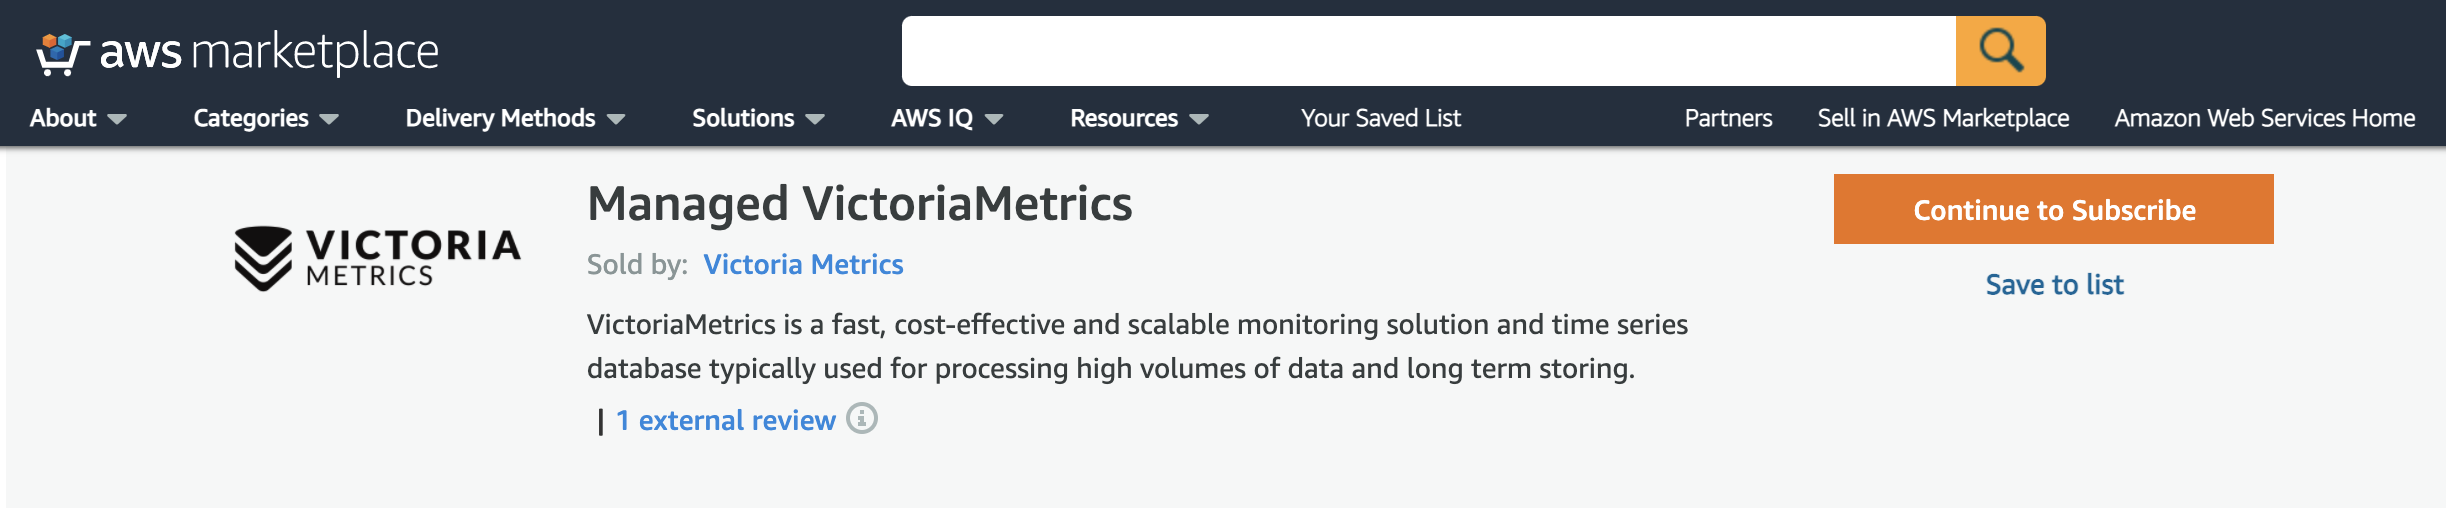
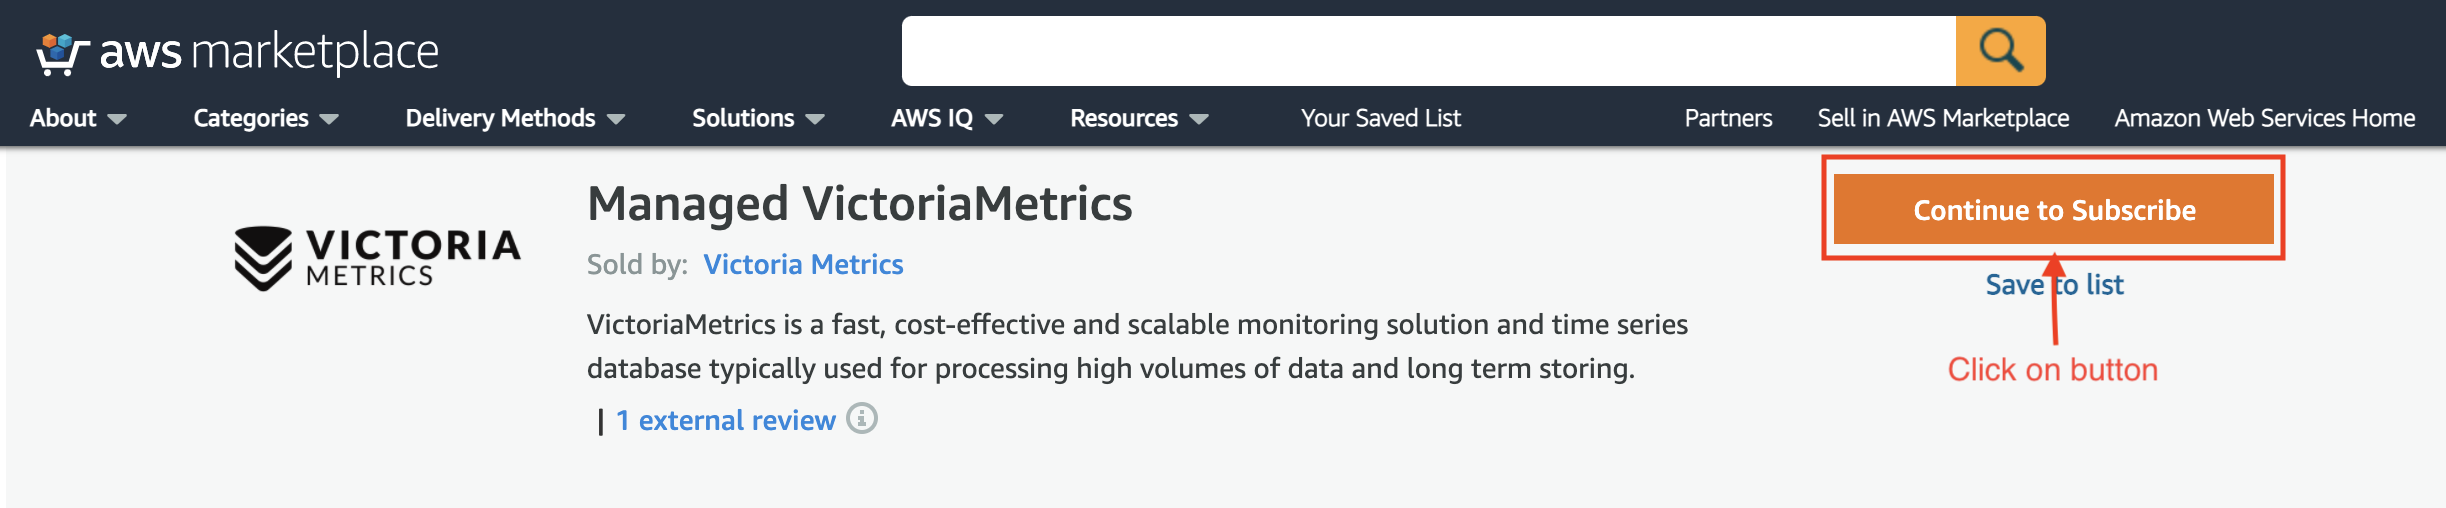
app/vmctl: update managed quickstart guide

Changed region(s): [[0.7457, 0.502, 0.9321, 0.561], [0.7768, 0.7087, 0.9011, 0.7677], [0.7457, 0.2953, 0.9321, 0.3248]]

diff --git a/docs/managed-victoriametrics/quickstart.md b/docs/managed-victoriametrics/quickstart.md
@@ -7,46 +7,67 @@ menu:
     parent: "managed"
     weight: 2
 ---
-# Quick Start
+# Quick Start in Managed VictoriaMetrics
+
 
 Managed VictoriaMetrics - is a database-as-a-service platform, where users can run the VictoriaMetrics 
 that they know and love on AWS without the need to perform typical DevOps tasks such as proper configuration, 
 monitoring, logs collection, access protection, software updates, backups, etc.
 
+The document covers the following topics
+1. [How to register](#how-to-register)
+2. [How to restore password](#how-to-restore-password)
+3. [Creating instance](#creating-instance)
+4. [Instance access](#instance-access)
+5. [Modifying instance](#modifying-instance)
+
 ## How to register
 
-Managed VictoriaMetrics id distributed via [AWS Marketplace](https://aws.amazon.com/marketplace/pp/prodview-4tbfq5icmbmyc).
+Managed VictoriaMetrics id distributed via <a href="https://aws.amazon.com/marketplace/pp/prodview-4tbfq5icmbmyc" target="_blank">AWS Marketplace</a>.
+Please note, that initial registering is only possible via link from <a href="https://aws.amazon.com/marketplace/pp/prodview-4tbfq5icmbmyc" target="_blank">AWS Marketplace</a>.
 To start using the service, one should have already registered AWS account 
-and visit [VictoriaMetrics product page](https://aws.amazon.com/marketplace/pp/prodview-4tbfq5icmbmyc).
+and visit <a href="https://aws.amazon.com/marketplace/pp/prodview-4tbfq5icmbmyc" target="_blank">VictoriaMetrics product page</a>.
+On that page click on `View purchase option` and you will be redirected to login page or to subscribe page.
 
-### Amazon Web Services
+<p>
+  <img src="quickstart_aws-purchase-click.png" width="800">
+</p>
 
-Managed VictoriaMetrics id distributed via <a href="https://aws.amazon.com/marketplace/pp/prodview-4tbfq5icmbmyc">AWS Marketplace</a>.
-To start using the service, one should have already registered AWS account. Then, go to the
+Then, go to the
 <a href="https://aws.amazon.com/marketplace/pp/prodview-4tbfq5icmbmyc">VictoriaMetrics product page</a>
-and click "Continue to Subscribe" button:
+and click `Continue to Subscribe` button:
 
 <p>
   <img src="quickstart_continue-subscribe.png" width="800">
 </p>
 
-Then on product page press the "Subscribe" button:
+Then on product page press the `Subscribe` button:
 
 <p>
   <img src="quickstart_subscribe.png" width="800">
 </p>
 
-You'll be taken to <a href="https://dbaas.victoriametrics.com/signIn">Managed VictoriaMetrics auth page</a>:
+After that action you will be able to see success message where you should click `Set up your account` button:
 
 <p>
-  <img src="quickstart_signin.png" width="800">
+  <img src="quickstart_setup-your-account.png" width="800">
+</p>
+
+You'll be taken to <a href="https://dbaas.victoriametrics.com//signUp">Managed VictoriaMetrics sign up page</a>:
+
+<p>
+  <img src="quickstart_signup-page.png" width="800">
 </p>
 
 Choose to register manually or via Google Auth.
 
-Please note, that initial registering is only possible via link from <a href="https://aws.amazon.com/marketplace/pp/prodview-4tbfq5icmbmyc" target="_blank">AWS Marketplace</a>.
+If it was chosen manually registration, confirmation email wil be sent to your email address.
 
-See what to do after registering in Quick Start guide.
+<p>
+  <img src="quickstart_email-confirm.png" width="800">
+</p>
+
+After Google Auth process will redirect automatically to the main page.
 
 ## How to restore password
 
@@ -66,15 +87,9 @@ If you forgot password, it can be restored in the following way:
 
 3. Follow the instruction sent to your email in order to gain access to your VictoriaMetrics cloud account:
 
-```
-Victoria Metrics Cloud password restore
-Follow https://dbaas.victoriametrics.com/login_by_link/{id} the link in order to restore access to Victoria Metrics Cloud.
-Access link expires once you login successfully or after 30min.
-You can change your password after login https://dbaas.victoriametrics.com/profile profile
-Please, ignore this email if you didn't init this action on Victoria Metrics Cloud.
-
-In case of questions contact our support support@victoriametrics.com
-```
+<p>
+  <img src="quickstart_password-restore-email.png" width="800">
+</p>
 
 4. Navigate to the Profile page by clicking the corresponding link at the top right corner:
 
@@ -91,39 +106,46 @@ In case of questions contact our support support@victoriametrics.com
 
 ## Creating instance
 
-Instances is a page where user can list and manage VictoriaMetrics single-node instances. 
-To create an instance click on the button `Create`:
+Deployments is a page where user can list and manage VictoriaMetrics deployments. 
+To create an instance click on the button `Create Deployments` button or link in the message:
 
 <p>
-  <img src="quickstart_instances.png" width="800">
+  <img src="quickstart_deployments.png" width="800">
 </p>
 
 In the opened form, choose parameters of the new instance such as:
 
-* `Instance type` from preset of AWS instances (you always can change the type later);
-* `Region` and `Zone` where instance should run;
-* Desired `disk size` for storing metrics (you always can expand disk size later);
+* `Deployment type` from preset single or cluster deployments;
+* `Region` where deployment should run;
+* Desired `storage capacity` for storing metrics (you always can expand disk size later);
 * `Retention` period for stored metrics.
+* `Size` of your deployment
 
 <p>
-  <img src="quickstart_instance-create.png" width="800">
+  <img src="quickstart_deployment-create.png" width="800">
 </p>
 
-Once created, instance will remain for a short period of time in `PROVISIONING` status 
+When all parameters are entered, click on the `Create` button, and deployment will be created
+
+Once created, deployment will remain for a short period of time in `PROVISIONING` status 
 while the hardware spins-up, just wait for a couple of minutes and reload the page. 
 You'll also be notified via email once provisioning is finished:
 
 <p>
-  <img src="quickstart_instance-provisioning.png" width="800">
+  <img src="quickstart_deployment-created.png" width="800">
 </p>
 
-## Access
+<p>
+  <img src="quickstart_deployments-running.png" width="800">
+</p>
+
+## Instance access
 
 After transition from `PROVISIONING` to `RUNNING` state, VictoriaMetrics is fully operational 
-and ready to accept write or read requests. But first, click on instance name to get the access token:
+and ready to accept write or read requests. But first, click on deployment name to get the access token:
 
 <p>
-  <img src="quickstart_tokens.png" width="800">
+  <img src="quickstart_deployment-access-token.png" width="800">
 </p>
 
 Access tokens are used in token-based authentication to allow an application to access the VictoriaMetrics API. 
@@ -131,13 +153,36 @@ Supported token types are `Read-Only`, `Write-Only` and `Read-Write`. Click on t
 to see usage examples:
 
 <p>
-  <img src="quickstart_token-usage.png" width="800">
+  <img src="quickstart_read-token.png" width="800">
+</p>
+
+<p>
+  <img src="quickstart_write-token.png" width="800">
 </p>
 
 Follow usage example in order to configure access to VictoriaMetrics for your Prometheus, 
 Grafana or any other software.
 
-## Modifying
+## Modifying instance
 
-Remember, you always can add, remove or modify existing instances by changing their type or increasing the disk space. 
-However, such an update requires an instance restart and may result into a couple of minutes of downtime.
+Remember, you always can add, remove or modify existing deployment by changing their size or any parameters on the 
+update form.
+
+<p>
+  <img src="quickstart_update-deployment.png" width="800">
+</p>
+
+There is another options present to customise you deployment setup. 
+To discover them click on `Customise` button
+
+<p>
+  <img src="quickstart_customise-deployment.png" width="800">
+</p>
+
+In that section additional params can be set:
+
+* `Deduplication` defines interval when deployment leaves a single raw sample with the biggest timestamp per each discrete interval;
+* `Maintenance Window` when deployment should start upgrade process if needed;
+* `Settings` allow to define different flags for the deployment.
+
+However, such an update requires an deployment restart and may result into a couple of minutes of downtime.
